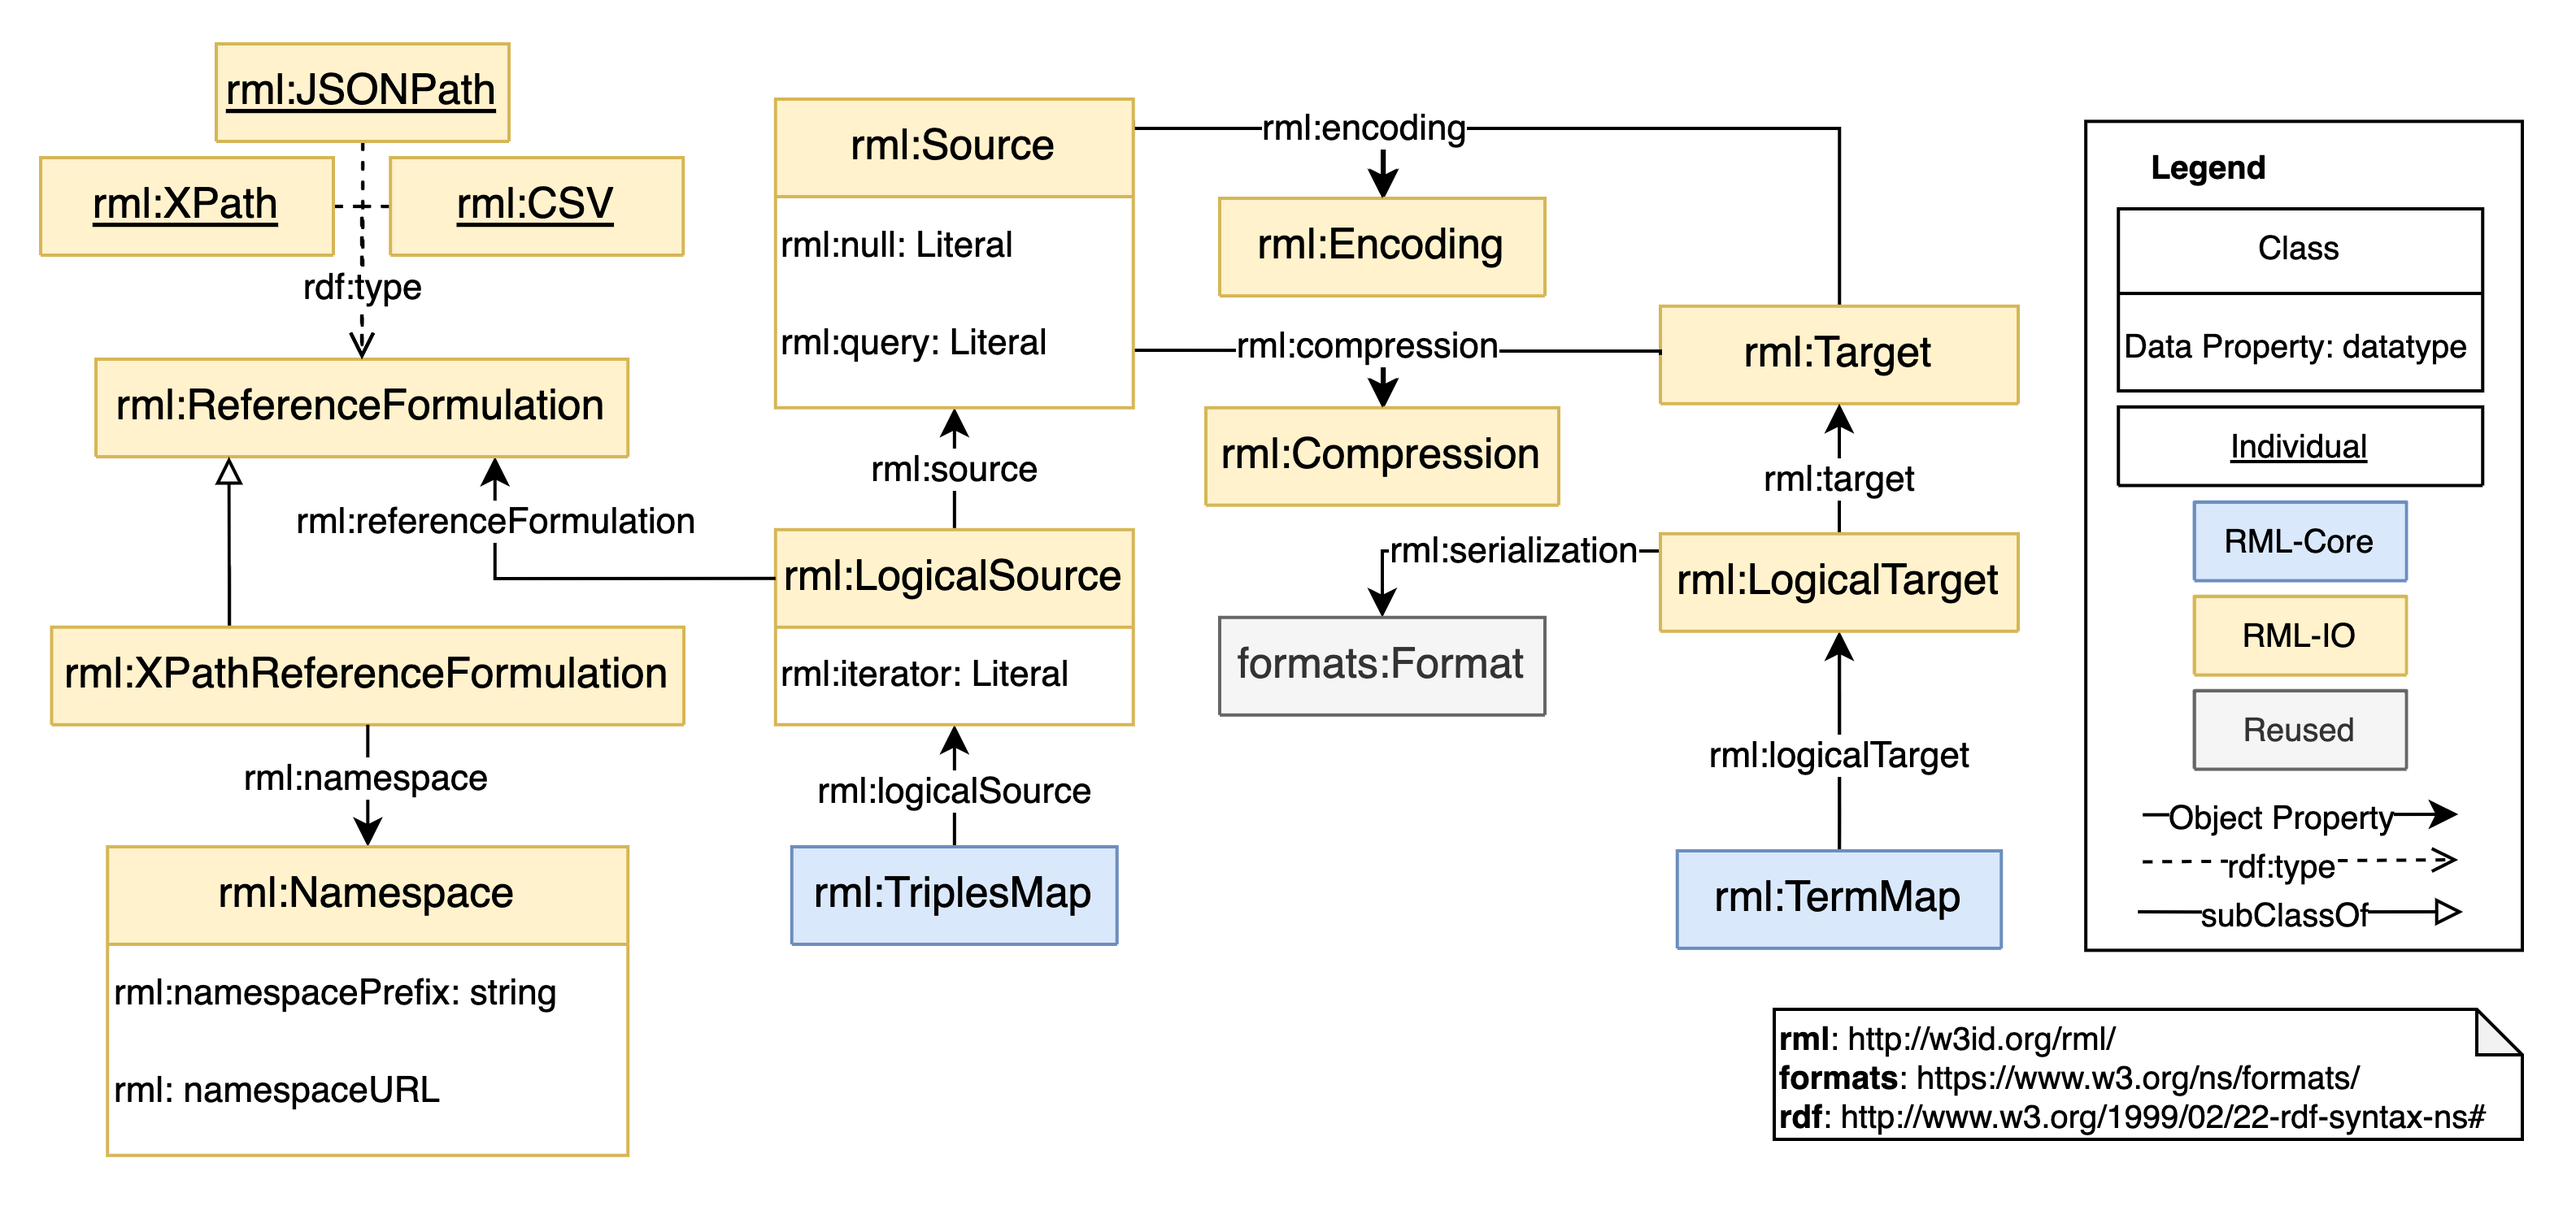
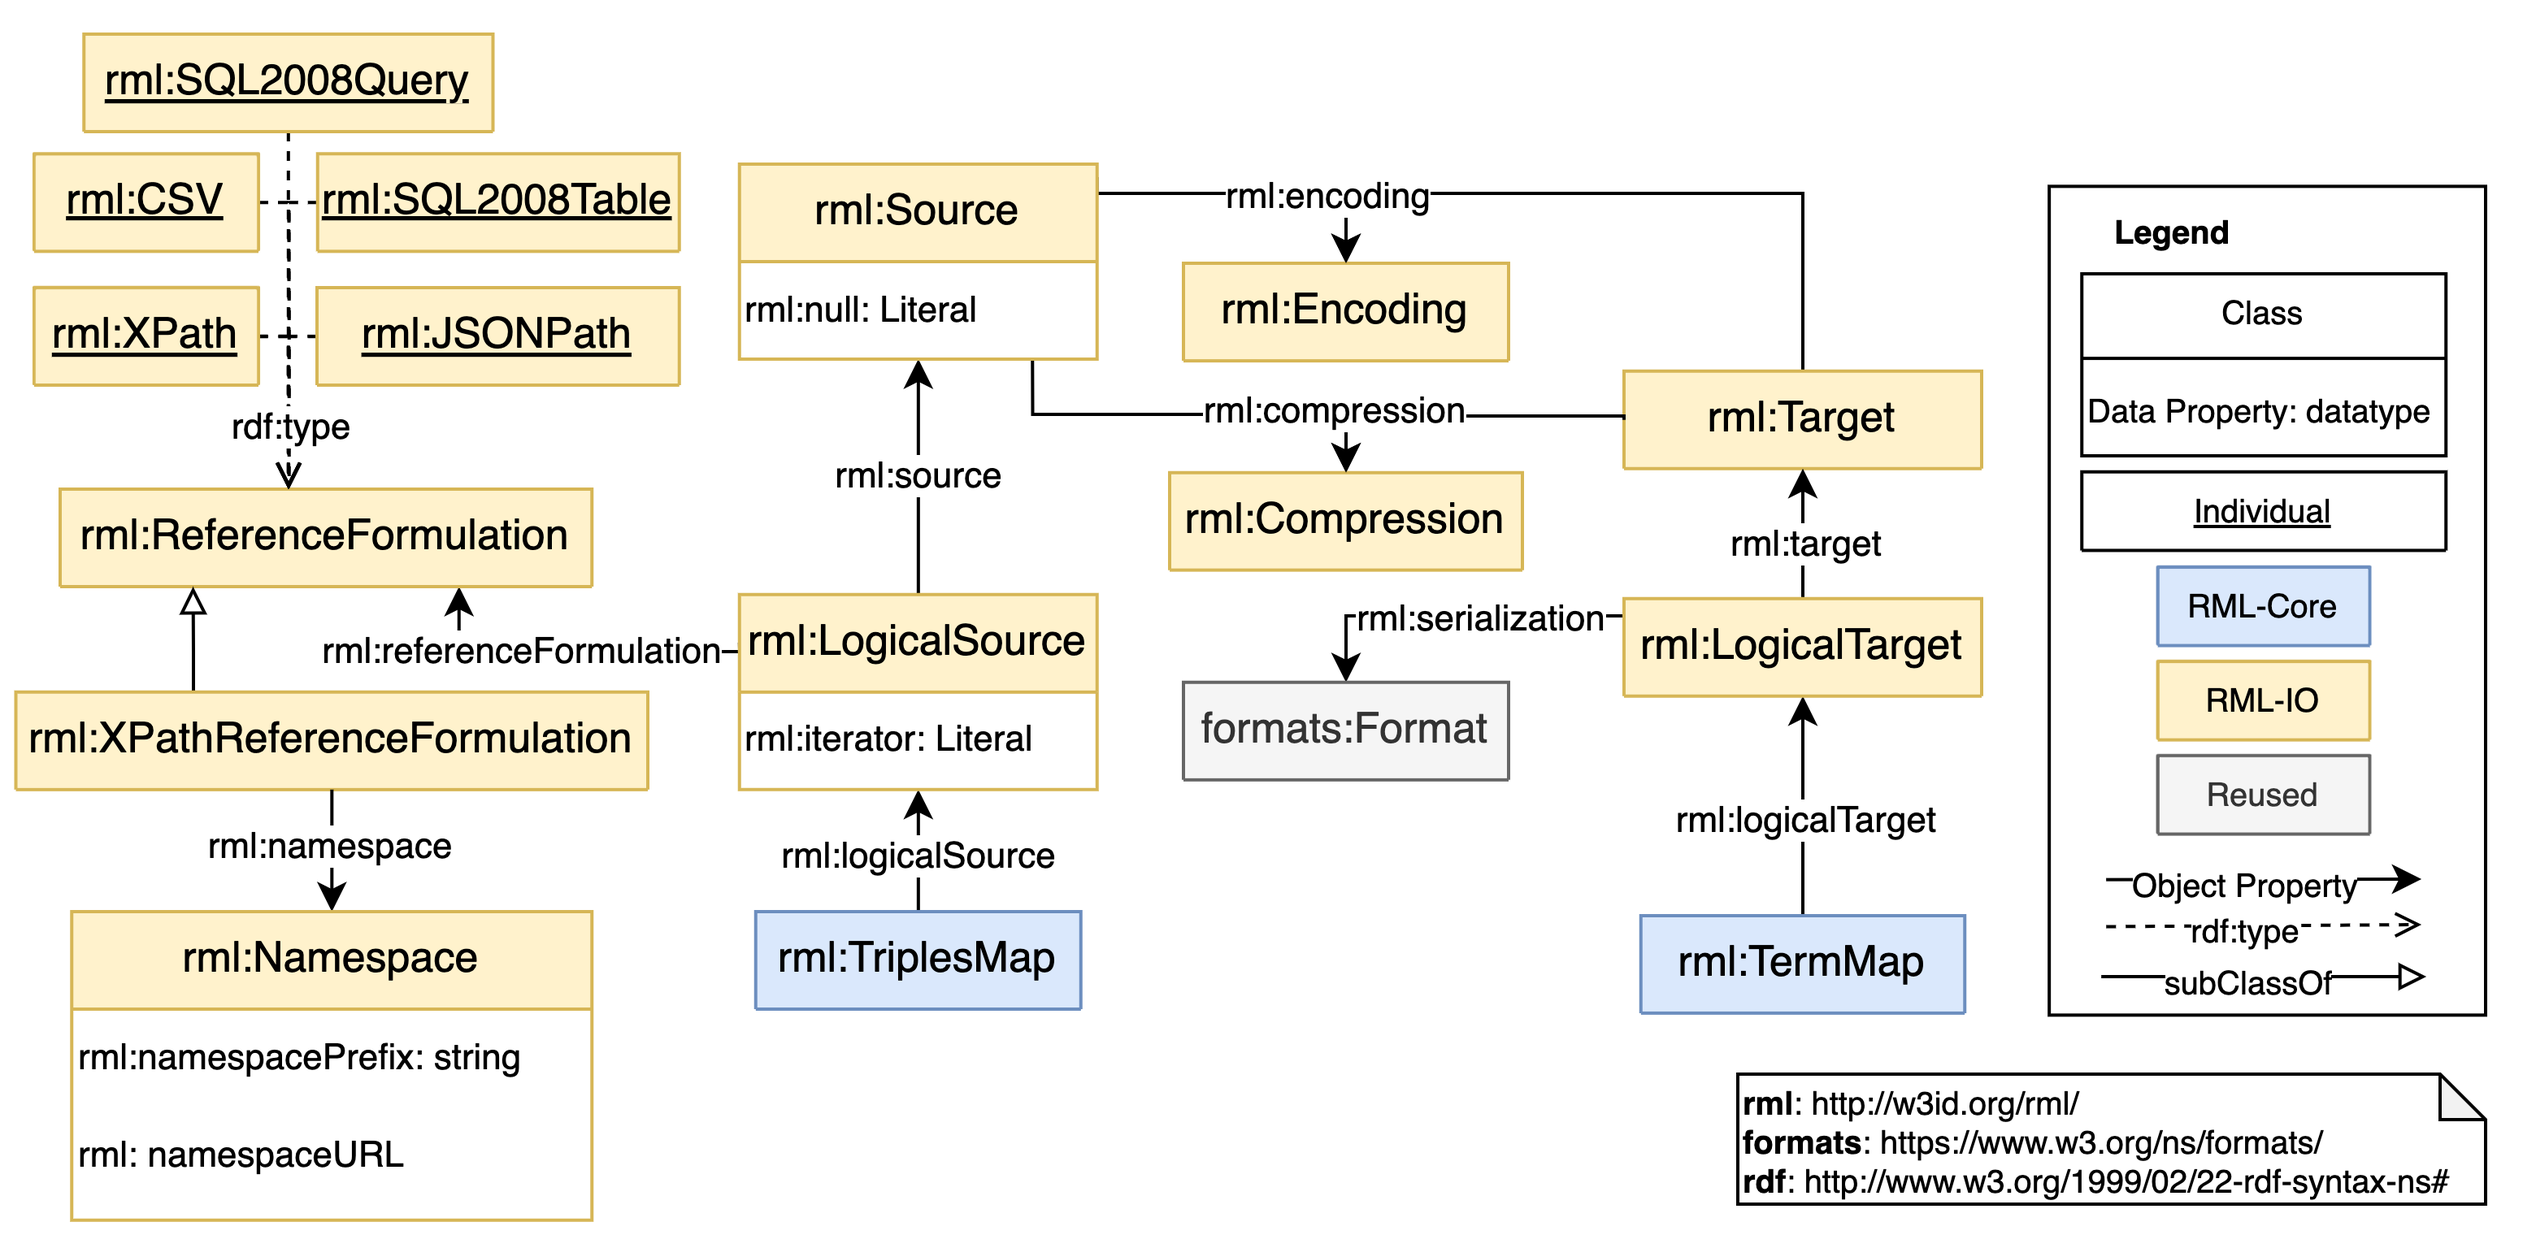
ontology, documentation and diagram updated

diff --git a/ontology/documentation/sections/crossref-en.html b/ontology/documentation/sections/crossref-en.html
@@ -206,7 +206,8 @@ This section provides details for each class and property defined by RML-IO: Sou
          <dd>
             <a href="#CSV" title="http://w3id.org/rml/CSV">CSV</a>
             <sup class="type-ni" title="named individual">ni</sup>, <a href="#JSONPath" title="http://w3id.org/rml/JSONPath">JSONPath</a>
-            <sup class="type-ni" title="named individual">ni</sup>, <a href="#SQL2008" title="http://w3id.org/rml/SQL2008">SQL 2008</a>
+            <sup class="type-ni" title="named individual">ni</sup>, <a href="#SQL2008Query" title="http://w3id.org/rml/SQL2008Query">SQL 2008 Query</a>
+            <sup class="type-ni" title="named individual">ni</sup>, <a href="#SQL2008Table" title="http://w3id.org/rml/SQL2008Table">SQL 2008 Table</a>
             <sup class="type-ni" title="named individual">ni</sup>, <a href="#XPath" title="http://w3id.org/rml/XPath">XPath</a>
             <sup class="type-ni" title="named individual">ni</sup>
          </dd>
@@ -232,7 +233,6 @@ This section provides details for each class and property defined by RML-IO: Sou
          <dt>is in domain of</dt>
          <dd>
             <a href="#null" title="http://w3id.org/rml/null">null</a>
-            <sup class="type-op" title="object property">op</sup>, <a href="#query" title="http://w3id.org/rml/query">query</a>
             <sup class="type-op" title="object property">op</sup>
          </dd>
          <dt>is in range of</dt>
@@ -312,9 +312,6 @@ This section provides details for each class and property defined by RML-IO: Sou
       </li>
       <li>
          <a href="#null" title="http://w3id.org/rml/null">null</a>
-      </li>
-      <li>
-         <a href="#query" title="http://w3id.org/rml/query">query</a>
       </li>
       <li>
          <a href="#referenceFormulation" title="http://w3id.org/rml/referenceFormulation">reference formulation</a>
@@ -470,39 +467,6 @@ This section provides details for each class and property defined by RML-IO: Sou
          <strong>IRI:</strong> http://w3id.org/rml/null</p>
       <div class="comment">
          <span class="markdown">Describes which data values inside the source should be considered as NULL.</span>
-      </div>
-      <dl class="definedBy">
-         <dt>Is defined by</dt>
-         <dd>
-            <a href="http://w3id.org/rml/io/">http://w3id.org/rml/io/</a>
-         </dd>
-      </dl>
-      <div class="description">
-         <dl>
-            <dt>has domain</dt>
-            <dd>
-               <a href="#Source" title="http://w3id.org/rml/Source">Source</a>
-               <sup class="type-c" title="class">c</sup>
-            </dd>
-            <dt>has range</dt>
-            <dd>
-               <a href="http://www.w3.org/1999/02/22-rdf-syntax-ns#Literal"
-                  target="_blank"
-                  title="http://www.w3.org/1999/02/22-rdf-syntax-ns#Literal">literal</a>
-               <sup class="type-c" title="class">c</sup>
-            </dd>
-         </dl>
-      </div>
-   </div>
-   <div class="entity" id="query">
-      <h3>query<sup class="type-op" title="object property">op</sup>
-         <span class="backlink"> back to <a href="#toc">ToC</a> or <a href="#objectproperties">Object Property ToC</a>
-         </span>
-      </h3>
-      <p>
-         <strong>IRI:</strong> http://w3id.org/rml/query</p>
-      <div class="comment">
-         <span class="markdown">Defines which query should be applied on the source during access</span>
       </div>
       <dl class="definedBy">
          <dt>Is defined by</dt>
@@ -737,7 +701,10 @@ This section provides details for each class and property defined by RML-IO: Sou
          <a href="#none" title="http://w3id.org/rml/none">None</a>
       </li>
       <li>
-         <a href="#SQL2008" title="http://w3id.org/rml/SQL2008">SQL 2008</a>
+         <a href="#SQL2008Query" title="http://w3id.org/rml/SQL2008Query">SQL 2008 Query</a>
+      </li>
+      <li>
+         <a href="#SQL2008Table" title="http://w3id.org/rml/SQL2008Table">SQL 2008 Table</a>
       </li>
       <li>
          <a href="#targzip" title="http://w3id.org/rml/targzip">TarGZip</a>
@@ -854,15 +821,39 @@ This section provides details for each class and property defined by RML-IO: Sou
          </dd>
       </dl>
    </div>
-   <div class="entity" id="SQL2008">
-      <h3>SQL 2008<sup class="type-ni" title="named individual">ni</sup>
+   <div class="entity" id="SQL2008Query">
+      <h3>SQL 2008 Query<sup class="type-ni" title="named individual">ni</sup>
          <span class="backlink"> back to <a href="#toc">ToC</a> or <a href="#namedindividuals">Named Individual ToC</a>
          </span>
       </h3>
       <p>
-         <strong>IRI:</strong> http://w3id.org/rml/SQL2008</p>
+         <strong>IRI:</strong> http://w3id.org/rml/SQL2008Query</p>
       <div class="comment">
-         <span class="markdown">Denotes the Core SQL 2008.</span>
+         <span class="markdown">Denotes a query in SQL 2008.</span>
+      </div>
+      <dl class="definedBy">
+         <dt>Is defined by</dt>
+         <dd>
+            <a href="http://w3id.org/rml/io/">http://w3id.org/rml/io/</a>
+         </dd>
+      </dl>
+      <dl class="description">
+         <dt>belongs to</dt>
+         <dd>
+            <a href="#ReferenceFormulation" title="http://w3id.org/rml/ReferenceFormulation">Reference Formulation</a>
+            <sup class="type-c" title="class">c</sup>
+         </dd>
+      </dl>
+   </div>
+   <div class="entity" id="SQL2008Table">
+      <h3>SQL 2008 Table<sup class="type-ni" title="named individual">ni</sup>
+         <span class="backlink"> back to <a href="#toc">ToC</a> or <a href="#namedindividuals">Named Individual ToC</a>
+         </span>
+      </h3>
+      <p>
+         <strong>IRI:</strong> http://w3id.org/rml/SQL2008Table</p>
+      <div class="comment">
+         <span class="markdown">Denotes a table in SQL 2008.</span>
       </div>
       <dl class="definedBy">
          <dt>Is defined by</dt>

diff --git a/ontology/documentation/index-en.html b/ontology/documentation/index-en.html
@@ -6,7 +6,7 @@
 
 
 <!-- SCHEMA.ORG METADATA -->
-<script type="application/ld+json">{"@context":"https://schema.org","@type":"TechArticle","url":"http://w3id.org/rml/io/","image":"http://vowl.visualdataweb.org/webvowl/#iri=http://w3id.org/rml/io/","name":"RML-IO: Source and Target", "headline":"RML-IO enables the description of input data sources and target output data serialization", "datePublished":"Fri Apr 28 14:43:47 UTC 2023", "contributor":[{"@type":"Person","name":"Ana Iglesias Molina"},{"@type":"Person","name":"Anastasia Dimou"},{"@type":"Person","name":"Dylan Van Assche"},{"@type":"Person","name":"Pano Maria"}]}</script>
+<script type="application/ld+json">{"@context":"https://schema.org","@type":"TechArticle","url":"http://w3id.org/rml/io/","image":"http://vowl.visualdataweb.org/webvowl/#iri=http://w3id.org/rml/io/","name":"RML-IO: Source and Target", "headline":"RML-IO enables the description of input data sources and target output data serialization", "datePublished":"Fri Sep 28 12:37:00 UTC 2023", "contributor":[{"@type":"Person","name":"Ana Iglesias Molina"},{"@type":"Person","name":"Anastasia Dimou"},{"@type":"Person","name":"Dylan Van Assche"},{"@type":"Person","name":"Pano Maria"}]}</script>
 
 <script src="resources/jquery.js"></script>
 <script src="resources/marked.min.js"></script>

diff --git a/ontology/documentation/sections/overview-en.html b/ontology/documentation/sections/overview-en.html
@@ -47,9 +47,6 @@ This ontology has the following classes and properties.</span>
       <a href="#null" title="http://w3id.org/rml/null">null</a>
    </li>
    <li>
-      <a href="#query" title="http://w3id.org/rml/query">query</a>
-   </li>
-   <li>
       <a href="#referenceFormulation" title="http://w3id.org/rml/referenceFormulation">reference formulation</a>
    </li>
    <li>
@@ -82,7 +79,10 @@ This ontology has the following classes and properties.</span>
       <a href="#none" title="http://w3id.org/rml/none">None</a>
    </li>
    <li>
-      <a href="#SQL2008" title="http://w3id.org/rml/SQL2008">SQL 2008</a>
+      <a href="#SQL2008Query" title="http://w3id.org/rml/SQL2008Query">SQL 2008 Query</a>
+   </li>
+   <li>
+      <a href="#SQL2008Table" title="http://w3id.org/rml/SQL2008Table">SQL 2008 Table</a>
    </li>
    <li>
       <a href="#targzip" title="http://w3id.org/rml/targzip">TarGZip</a>
